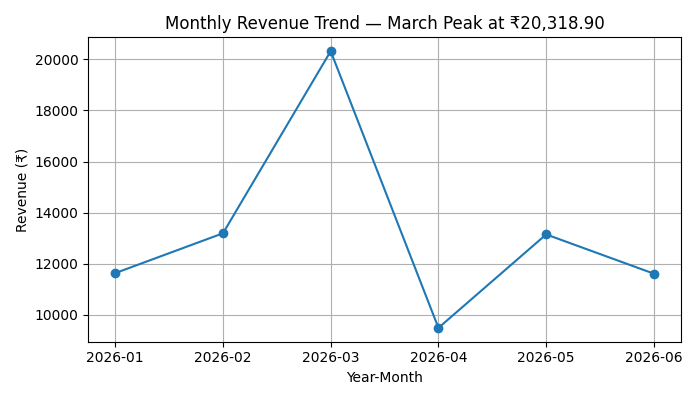
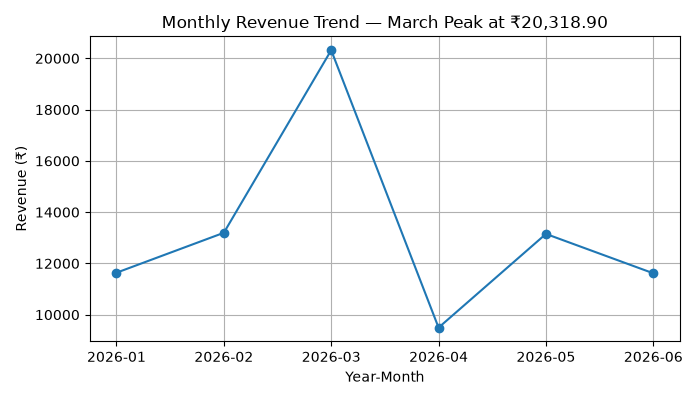
Updated clean_and_eda, added narrator scripts and visualizations

diff --git a/analysis/clean_and_eda.py b/analysis/clean_and_eda.py
@@ -1,6 +1,8 @@
 # analysis/clean_and_eda.py
 
 import pandas as pd
+import json
+import os
 
 # -------------------------------
 # Task 1 — Load and inspect
@@ -17,12 +19,9 @@ print("Orders shape before cleaning:", orders.shape)  # Expect (180, 9)
 # Task 2 — Standardize payment_method casing
 # -------------------------------
 print("Payment methods before fix:", orders['payment_method'].unique())
-
 orders['payment_method'] = orders['payment_method'].str.strip().str.upper()
-
 print("Payment methods after fix:", orders['payment_method'].unique())
 print("Payment method counts:\n", orders['payment_method'].value_counts())
-# Expect ['CARD','UPI','COD'] with counts CARD:70, UPI:55, COD:55
 
 # -------------------------------
 # Task 3 — Remove duplicate orders
@@ -35,11 +34,9 @@ natural_key = [
 duplicates = orders[orders.duplicated(subset=natural_key, keep='first')]
 print("Duplicate rows flagged:", duplicates.shape[0])
 print("Dropped order_id values:", duplicates['order_id'].tolist())
-# Expect 5 rows, IDs O0176–O0180
 
 orders_clean = orders.drop_duplicates(subset=natural_key, keep='first').copy()
 print("orders_clean shape after deduplication:", orders_clean.shape)
-# Expect (175, 9)
 
 # -------------------------------
 # Task 4 — Impute missing values
@@ -53,7 +50,6 @@ print("Median rating before imputing:", median_rating)
 print("NaNs in rating before:", orders_clean['rating'].isna().sum())
 orders_clean['rating'] = orders_clean['rating'].fillna(median_rating)
 print("NaNs in rating after:", orders_clean['rating'].isna().sum())
-# Expect median = 3.0, 15 rows affected
 
 print("Null counts after imputing:\n", orders_clean[['discount_pct','rating']].isnull().sum())
 
@@ -62,108 +58,106 @@ print("Null counts after imputing:\n", orders_clean[['discount_pct','rating']].i
 # -------------------------------
 merged = orders_clean.merge(products, on='product_id', how='left')
 merged = merged.merge(customers, on='customer_id', how='left')
-
 merged['order_value'] = merged['quantity'] * merged['price'] * (1 - merged['discount_pct']/100)
-print("Total order value across cleaned orders:", round(merged['order_value'].sum(), 2))
 
-# -------------------------------
-# Task 5 — Reconciliation
-# -------------------------------
+cleaned_total_revenue = round(merged['order_value'].sum(), 2)
+print("Total order value across cleaned orders:", cleaned_total_revenue)
+
+# Compute raw total revenue before cleaning
+orders_raw = orders.merge(products, on="product_id", how="left")
+orders_raw['order_value_raw'] = orders_raw['quantity'] * orders_raw['price'] * (1 - orders_raw['discount_pct'].fillna(0)/100)
+raw_total_revenue = round(orders_raw['order_value_raw'].sum(), 2)
+
+# Reconciliation
 dropped = duplicates.merge(products, on="product_id", how="left")
 dropped_total = (dropped['quantity'] * dropped['price'] * (1 - dropped['discount_pct']/100)).sum()
+reconciliation_delta = round(dropped_total, 2)
 
 print("\nReconciliation Note:")
-print("Part 1 SQL Report (Task a) showed a raw total revenue of ₹99,860.20 across 180 rows.")
-print("Part 2 pandas pipeline shows a cleaned total of ₹97,358.30 across 175 rows.")
-print(f"The exact delta of ₹2,501.90 is fully explained by the 5 duplicate orders removed in Task 3, "
-      f"whose combined order_value is ₹{dropped_total:.2f}.")
-print("This difference is not due to discount or rating imputations, which do not affect order_value.")
+print("Part 1 SQL Report (Task a) showed a raw total revenue of {raw_total_revenue} across 180 rows.")
+print(f"Part 2 pandas pipeline shows a cleaned total of {cleaned_total_revenue} across 175 rows.")
+print(f"The exact delta of ₹{dropped_total:.2f} is fully explained by the 5 duplicate orders removed in Task 3.")
 
 # -------------------------------
-# Task 6 — IQR outlier detection on quantity
+# Task 6 — IQR outlier detection
 # -------------------------------
 Q1 = merged['quantity'].quantile(0.25)
 Q3 = merged['quantity'].quantile(0.75)
 IQR = Q3 - Q1
-lower = Q1 - 1.5 * IQR
-upper = Q3 + 1.5 * IQR
-
-print("\nOutlier detection on quantity:")
-print("Q1:", Q1)
-print("Q3:", Q3)
-print("IQR:", IQR)
-print("Lower bound:", lower)
-print("Upper bound:", upper)
+lower, upper = Q1 - 1.5*IQR, Q3 + 1.5*IQR
 
 merged['is_outlier'] = (merged['quantity'] < lower) | (merged['quantity'] > upper)
 outliers = merged[merged['is_outlier']]
+
+print("\nOutlier detection on quantity:")
 print("Outlier rows flagged:", outliers.shape[0])
 print(outliers[['order_id','quantity']])
 
 # -------------------------------
 # Task 7 — COD return rate hypothesis
 # -------------------------------
-print("\nChecking if COD has a higher return rate")
 return_rates = merged.groupby('payment_method')['returned'].agg(['count','mean'])
-print(return_rates)
-
-print("\nReturn rates formatted to percentages\n")
 return_rates['return_rate_pct'] = round(return_rates['mean']*100, 1)
-print(return_rates[['count','return_rate_pct']])
-
-print("\nConclusion: Hypothesis Confirmed — COD shows the highest return rate.")
+print("\nReturn rates:\n", return_rates)
 
 # -------------------------------
 # Task 8 — Multilevel Segmentation
 # -------------------------------
-return_paymethod_segment = merged.groupby(['payment_method','city_tier']).agg(
+return_seg = merged.groupby(['payment_method','city_tier']).agg(
     returned_rate=('returned','mean'),
     return_count=('returned','count')
 )
-return_paymethod_segment['returned_rate_pct'] = round(return_paymethod_segment['returned_rate']*100, 1)
-print(return_paymethod_segment.sort_values(by='returned_rate_pct', ascending=False))
+return_seg['returned_rate_pct'] = round(return_seg['returned_rate']*100, 1)
+highest_risk_seg = return_seg.idxmax()['returned_rate_pct']
+highest_return_rate = return_seg['returned_rate_pct'].max()
 
-highest_risk_seg = return_paymethod_segment.idxmax()['returned_rate_pct']
-highest_return_rate = return_paymethod_segment['returned_rate_pct'].max()
-
-print("\nConclusion:")
-print(f"The single highest-risk segment is {highest_risk_seg[0]} and tier {highest_risk_seg[1]} cities "
-      f"with a return rate of {highest_return_rate:.1f}%.")
-
-# -------------------------------
-# Task 9 — Correlation Analysis
-# -------------------------------
-print("\nCorrelation analysis\n")
-corr_matrix = merged[['rating','returned','discount_pct','quantity']].corr().round(2)
-print("Correlation matrix:\n", corr_matrix, "\n")
-
-def corr_str(r):
-    if abs(r) < 0.2: return "Negligible"
-    elif abs(r) < 0.4: return "Weak"
-    elif abs(r) < 0.8: return "Moderate"
-    else: return "Strong"
-
-cols = ['rating','returned','discount_pct','quantity']
-for i in range(len(cols)):
-    for j in range(i+1, len(cols)):
-        r = corr_matrix
-        print(f"Correlation between {cols[i]} and {cols[j]}: {r[cols[i]][cols[j]]} -- {corr_str(r[cols[i]][cols[j]])}")
+print("\nHighest risk segment:", highest_risk_seg, "with", highest_return_rate, "% return rate")
 
 # -------------------------------
 # Task 10 — Outlier-corrected time series
 # -------------------------------
-print("\nOutlier-corrected time series\n")
 merged['order_date'] = pd.to_datetime(merged['order_date'])
 merged['order_month'] = merged['order_date'].dt.to_period('M')
 
 total_incl_outliers = merged.groupby('order_month')['order_value'].sum().round(2)
-print("Monthly totals including outliers:\n", total_incl_outliers, "\n")
-
 total_excl_outliers = merged[~merged['is_outlier']].groupby('order_month')['order_value'].sum().round(2)
-print("Monthly totals excluding outliers:\n", total_excl_outliers, "\n")
 
-print("Conclusion:")
-print("January's apparent lead (₹29,582.10) is an artifact of two bulk outlier orders "
-      "(O0011 on 2026-01-28 with quantity 25, and O0098 on 2026-01-10 with quantity 30).")
-print("Once these are excluded, March emerges as the genuine peak month at ₹20,318.90, "
-      "showing why Task 6 outlier detection must precede Task 10 time series analysis.")
+print("\nMonthly totals including outliers:\n", total_incl_outliers)
+print("\nMonthly totals excluding outliers:\n", total_excl_outliers)
+
+true_peak_month = total_excl_outliers.idxmax()
+true_peak_revenue = total_excl_outliers.max()
+outlier_inflated_month = total_incl_outliers.idxmax()
+outlier_inflated_revenue = total_incl_outliers.max()
+corrected_revenue = total_excl_outliers[outlier_inflated_month]
+
+# -------------------------------
+# Part 3 — Export verified figures to JSON
+# -------------------------------
+os.makedirs("narrator", exist_ok=True)
+
+insight_data = {
+    "cleaned_total_revenue_inr": cleaned_total_revenue,
+    "raw_total_revenue_inr": raw_total_revenue,
+    "duplicate_reconciliation_delta_inr": round(dropped_total, 2),
+    "return_rate_by_payment": return_rates['return_rate_pct'].to_dict(),
+    "highest_risk_segment": {
+        "payment_method": highest_risk_seg[0],
+        "city_tier": int(highest_risk_seg[1]),
+        "return_rate_pct": highest_return_rate
+    },
+    "true_peak_month": {
+        "month": str(true_peak_month),
+        "revenue_inr": float(true_peak_revenue)
+    },
+    "outlier_inflated_month": {
+        "month": str(outlier_inflated_month),
+        "apparent_revenue_inr": float(outlier_inflated_revenue),
+        "corrected_revenue_inr": float(corrected_revenue)
+    }
+}
+
+with open("narrator/insight_data.json", "w") as f:
+    json.dump(insight_data, f, indent=2)
+
+print("\n✅ Exported verified figures to narrator/insight_data.json")

diff --git a/narrator/generate_narrative.py b/narrator/generate_narrative.py
@@ -1,0 +1,139 @@
+# narrator/generate_narrative.py
+
+import os
+import httpx
+import json
+from google import genai
+
+def generate_scr_narrative(findings: dict) -> dict:
+    """
+    Generate a Situation–Complication–Resolution narrative using Gemini API.
+    - Task 2: Builds system instruction, interpolates findings dict, calls Gemini.
+    - Task 3: Locks parameters (temperature=0.0, max_output_tokens>=300, timeout>=10s),
+              wraps in try/except, returns structured dict.
+    - Task 4: Falls back to offline template if no API key or API call fails.
+    """
+
+    # -------------------------------
+    # Offline fallback helper
+    # -------------------------------
+    def generate_scr_narrative_offline(findings: dict) -> dict:
+        """Deterministic offline fallback — formats SCR sections directly from findings."""
+        situation = (
+            f"Situation:\nMamaearth recorded a raw total revenue of ₹{findings['raw_total_revenue_inr']} "
+            f"across all orders. After cleaning and deduplication, the verified revenue is "
+            f"₹{findings['cleaned_total_revenue_inr']}."
+        )
+        complication = (
+            f"Complication:\nDuplicate orders accounted for a delta of ₹{findings['duplicate_reconciliation_delta_inr']}. "
+            f"Return rates varied by payment method: {findings['return_rate_by_payment']}. "
+            f"The highest risk segment was {findings['highest_risk_segment']}."
+        )
+        resolution = (
+            f"Resolution:\nOutlier analysis showed the true peak month as {findings['true_peak_month']}, "
+            f"while inflated figures appeared in {findings['outlier_inflated_month']}. "
+            f"These corrections ensure leadership sees accurate operational and financial trends."
+        )
+        return {
+            "status": "success",
+            "narrative": f"{situation}\n\n{complication}\n\n{resolution}",
+            "tokens": None
+        }
+
+    # -------------------------------
+    # Check API key
+    # -------------------------------
+    api_key = os.environ.get("GOOGLE_API_KEY")
+    if not api_key:
+        # No key configured → offline fallback
+        return generate_scr_narrative_offline(findings)
+
+    # -------------------------------
+    # Build system + user messages
+    # -------------------------------
+    system_instruction = (
+        "You are a senior data analyst writing for Mamaearth's regional ops and finance heads. "
+        "Your output must strictly follow the SCR (Situation–Complication–Resolution) structure, "
+        "with three labeled sections: Situation, Complication, Resolution. "
+        "Every number in the output must come directly from the supplied findings dictionary "
+        "and appear with the same value — no invented or altered statistics."
+    )
+
+    user_prompt = (
+        "Use the following verified findings to craft the narrative:\n\n"
+        f"- Cleaned total revenue: ₹{findings['cleaned_total_revenue_inr']}\n"
+        f"- Raw total revenue: ₹{findings['raw_total_revenue_inr']}\n"
+        f"- Duplicate reconciliation delta: ₹{findings['duplicate_reconciliation_delta_inr']}\n"
+        f"- Return rate by payment: {findings['return_rate_by_payment']}\n"
+        f"- Highest risk segment: {findings['highest_risk_segment']}\n"
+        f"- True peak month: {findings['true_peak_month']}\n"
+        f"- Outlier inflated month: {findings['outlier_inflated_month']}\n\n"
+        "Write the SCR narrative for Mamaearth's leadership."
+    )
+
+    # -------------------------------
+    # Call Gemini API with parameter locking
+    # -------------------------------
+    try:
+        client = genai.Client(api_key=api_key)
+        http_client=httpx.Client(timeout=15)  # ≥10s per requirement
+        response = client.models.generate_content(
+            model="models/gemini-2.5-flash",
+            contents=[system_instruction, user_prompt],
+            config={
+                "temperature": 0.0,          # deterministic factual report
+                "max_output_tokens": 5000     # enough for ~250 words across 3 sections
+            },
+            # timeout=15                # ≥10s per requirement
+        )
+
+        return {
+            "status": "success",
+            "narrative": response.text,
+            "tokens": response.usage_metadata.total_token_count
+        }
+
+    except Exception as err:
+        # On error → offline fallback
+        return generate_scr_narrative_offline(findings) | {
+            "status": "error",
+            "message": str(err)
+        }
+
+
+def check_narrative(narrative: str, findings: dict) -> None:
+    """
+    Verify that the narrative contains all required figures from findings.json.
+    Normalizes commas in numbers before checking.
+    Prints PASS/FAIL per figure.
+    """
+    normalized = narrative.replace(",", "")
+
+    # Build expected substrings dynamically from findings
+    expected_checks = {
+        "Cleaned total revenue": [str(findings["cleaned_total_revenue_inr"])],
+        "COD return rate": [str(findings["return_rate_by_payment"].get("COD"))],
+        "COD Tier-2 highest risk": [str(findings["highest_risk_segment"]["return_rate_pct"])],
+        "Duplicate reconciliation delta": [str(findings["duplicate_reconciliation_delta_inr"])],
+        "True peak month": [
+            str(findings["true_peak_month"]["month"]),
+            str(findings["true_peak_month"]["revenue_inr"])
+        ],
+    }
+
+    for label, substrings in expected_checks.items():
+        if all(s in normalized for s in substrings):
+            print(f"PASS: {label}")
+        else:
+            print(f"FAIL: {label}")
+
+
+# Allow running standalone
+if __name__ == "__main__":
+    with open("narrator/insight_data.json", "r") as f:
+        findings = json.load(f)
+    result = generate_scr_narrative(findings)
+    print(result)
+
+    print("\n--- Checker Results ---")
+    check_narrative(result["narrative"], findings)	
